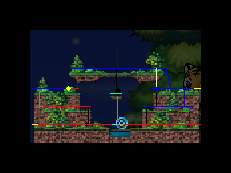
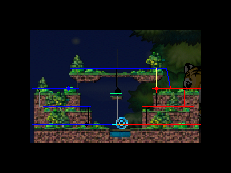
1. 修改烏山深處地圖 2. 新增killua設定檔

diff --git a/config/config.py b/config/config.py
@@ -38,7 +38,7 @@ class Config:
     # FPS(Frame per Second) limit for main thread
     fps_limit = 15
     # offset from the nametag's top-left corner to the player's center
-    nametag_offset = (-35, 35) # pixel
+    nametag_offset = (-37, 35) # pixel
     nametag_diff_thres = 0.4
 
     # ────────────────
@@ -53,7 +53,56 @@ class Config:
     # attack cooldown time in seconds
     attack_cooldown = 0.05  # seconds between attacks
     # character turn delay before attack
-    character_turn_delay = 0.02  # seconds to wait for character to turn before attacking
+    character_turn_delay = 0.1  # seconds to wait for character to turn before attacking
+
+    # ###########################################################################
+    # killua
+    # ###########################################################################
+    # # Key to trigger AoE skill (e.g., Monk's AoE heal or Mage's AoE attack).
+    # aoe_skill_key = "r"
+
+    # # Key to trigger the basic attack skill, like Mage's Magic Claw.
+    # magic_claw_key = "r"
+
+    # # Key to trigger Mage's teleport skill
+    # teleport_key = "" # set to "", if need to disable teleport skill
+
+    # # Key for jumping.
+    # jump_key = "space"
+
+    # # Key to use a health potion.
+    # heal_key = "1"
+
+    # # Key to use a mana potion.
+    # add_mp_key = "2"
+
+    # # Buff skill keys, e.g., magical sheild, angel blessing
+    # buff_skill_keys     = ["0", "0", "0"]
+    # buff_skill_cooldown = [300, 140, 75] # Second
+    # buff_skill_active_duration = 1 # second
+
+    # # ────────────────
+    # # NameTag Recongnition
+    # # ────────────────
+    # # FPS(Frame per Second) limit for main thread
+    # fps_limit = 15
+    # # offset from the nametag's top-left corner to the player's center
+    # nametag_offset = (-38, 35) # pixel
+    # nametag_diff_thres = 0.4
+
+    # # ────────────────
+    # # Attack Settings
+    # # ────────────────
+    # # aoe skill attack range relative to player position
+    # aoe_skill_range_x = 240 # pixels (horizontal range)
+    # aoe_skill_range_y = 70  # pixels (vertical range)
+    # # magic claw skill attack range relative to player position
+    # magic_claw_range_x = 240 # pixels (horizontal range)
+    # magic_claw_range_y = 70  # pixels (vertical range)
+    # # attack cooldown time in seconds
+    # attack_cooldown = 0.05  # seconds between attacks
+    # # character turn delay before attack
+    # character_turn_delay = 0.1  # seconds to wait for character to turn before attacking
 
     # ────────────────
     # Edge Teleport
@@ -115,8 +164,8 @@ class Config:
     # ────────────────
     # Movement Behavior
     # ────────────────
-    up_drag_duration = 1.0 # hold duration for 'up' key to prevent rope-sticking (in seconds)
-    down_drag_duration = 1.0 # seconds
+    up_drag_duration = 3.0 # hold duration for 'up' key to prevent rope-sticking (in seconds)
+    down_drag_duration = 2.0 # seconds
     watch_dog_timeout = 3 # seconds, if player doesn't move for 3 second, random perform an action
     watch_dog_range = 10 # pixel, if player location is smaller than watch_dog_range, consider it doesn't move
 
@@ -125,7 +174,7 @@ class Config:
     # ────────────────
     rune_warning_top_left     = (513, 196)
     rune_warning_bottom_right = (768, 236)
-    rune_warning_diff_thres = 0.2
+    rune_warning_diff_thres = 0.3
 
     # ────────────────
     # Rune Detection
